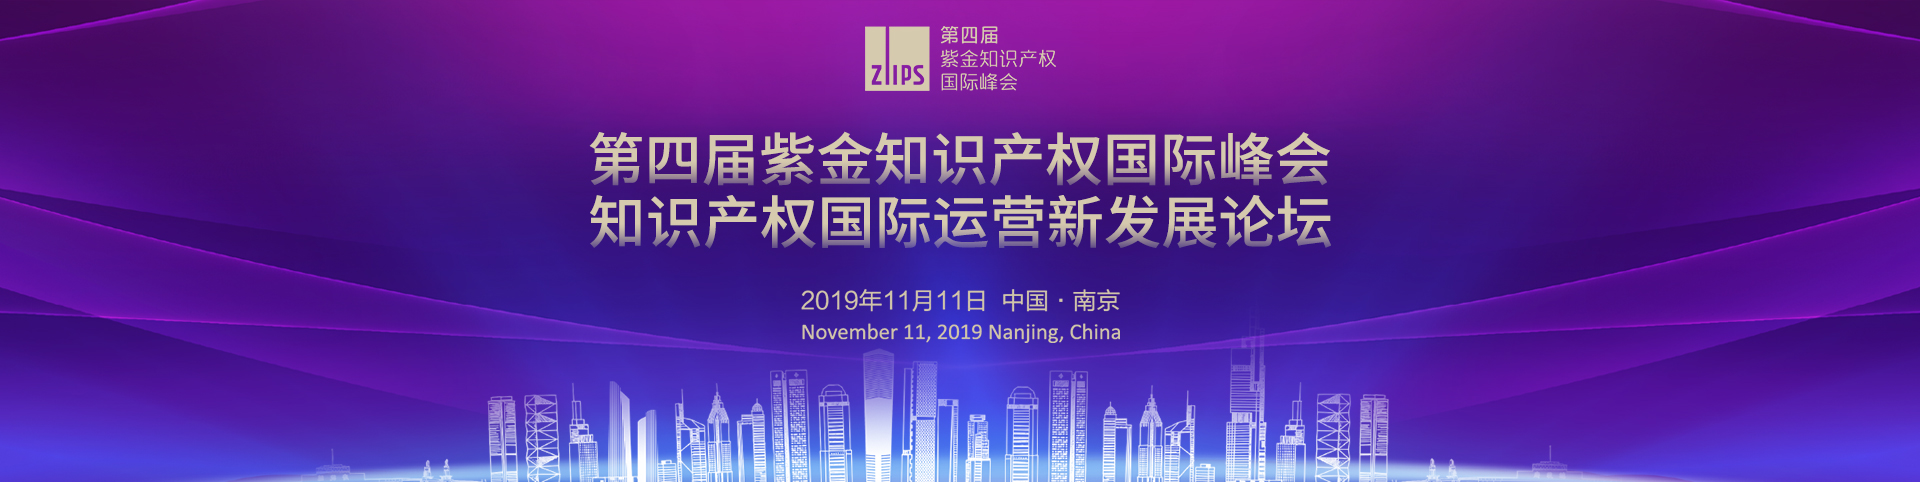
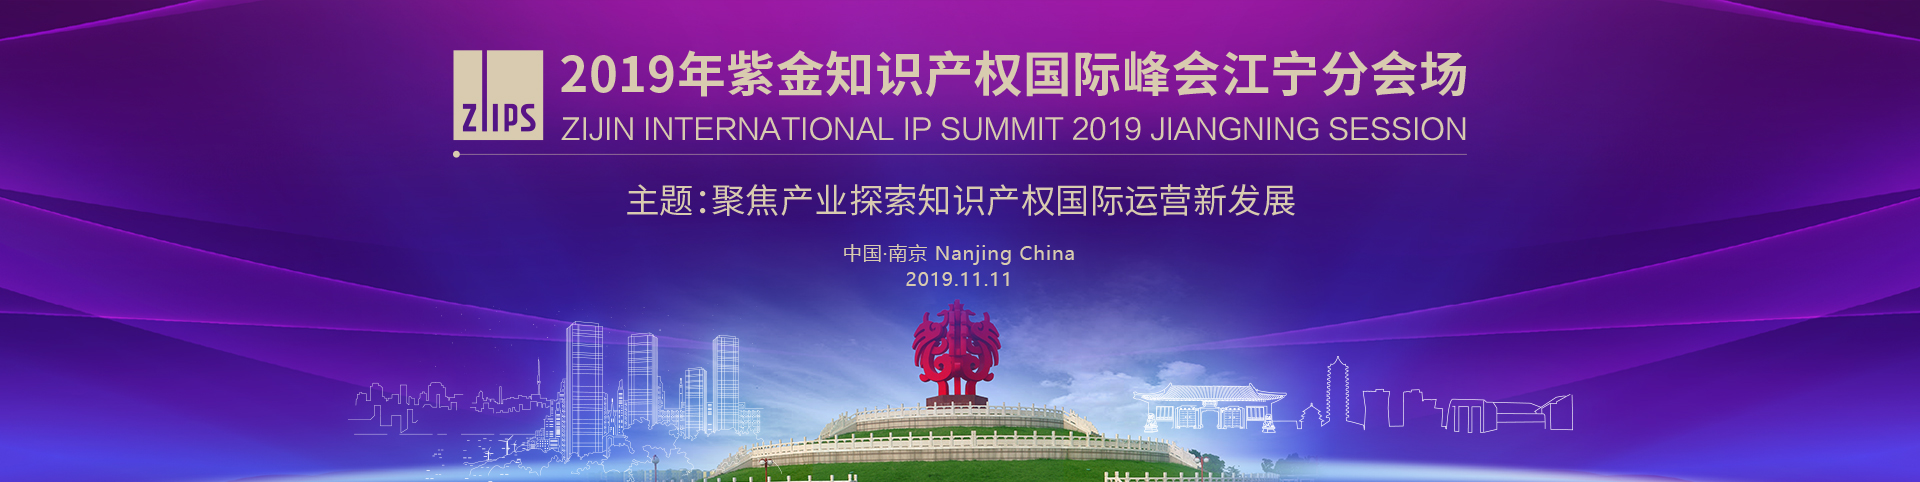
改图文字

Changed region(s): [[0.1562, 0.0311, 0.8125, 1.0]]

diff --git a/pack/zifen/2019ZHISHI.html b/pack/zifen/2019ZHISHI.html
@@ -18,7 +18,7 @@
 	.mw{width: 1200px; margin: auto;}
 	.head{height: 108px;}
 	.banner{height: 482px; background: url("./resource/banner.jpg") center;}
-	.logo{height: 78px; width: 396px; background-image: url("./resource/logo.jpg"); padding: 0;}
+	.logo{height: 65px; width: 421px; background: url("./resource/logo.jpg") no-repeat; margin-top: 7px;}
 	
 	.tit1{text-align: center; color: #b6a16a; font-size: 28px; padding-top: 120px; padding-bottom: 50px;}
 	.con1{line-height: 50px; font-size: 20px; padding-bottom: 50px;}
@@ -66,7 +66,7 @@
 		<div class="tit1">聚焦产业探索知识产权国际运营新发展</div>
 		<table class="locTab mw" border="0" cellpadding="0" cellspacing="0" style="text-align: center;">
 			<tr>
-				<td style="width: 670px;">时间：2019年11月11日 (星期一)&nbsp;下午13:30-17:30</td>
+				<td style="width: 670px;">时间：2019年11月11日（星期一）&nbsp;下午13:30-17:00</td>
 			</tr>
 			<tr>
 				<td>地点：南京国际青年会议酒店百花厅（建邺区邺城路8号）</td>
@@ -86,38 +86,68 @@
 		<div class="line"></div>
 		<div class="tit1">主要议程</div>
 		<div class="mw">
-			<div class="itTime">13:20-14:00</div>
+			<div class="itTime">13:00-13:30</div>
 			<div class="itVal">来宾签到</div>
 		</div>
 		<div class="dash"></div>
 		<div class="mw">
-			<div class="itTime">14:00-14:25</div>
+			<div class="itTime">13:30-13:50</div>
 			<div class="itVal">领导致辞</div>
 		</div>
 		<div class="dash"></div>
 		<div class="mw">
-			<div class="itTime">14:25-14:35</div>
+			<div class="itTime">13:50-14:00</div>
 			<div class="itVal">签约仪式</div>
 		</div>
 		<div class="dash"></div>
 		<div class="mw">
-			<div class="itTime">14:35-14:45</div>
-			<div class="itVal">揭牌仪式</div>
-		</div>
-		<div class="dash"></div>
-		<div class="mw">
-			<div class="itTime">14:45-14:55</div>
+			<div class="itTime">14:00-14:05</div>
 			<div class="itVal">聘书仪式</div>
 		</div>
 		<div class="dash"></div>
 		<div class="mw">
-			<div class="itTime">15:10-16:30</div>
-			<div class="itVal">主题演讲</div>
+			<div class="itTime">14:05-14:10</div>
+			<div class="itVal">揭牌仪式</div>
 		</div>
 		<div class="dash"></div>
 		<div class="mw">
-			<div class="itTime">16:30-17:30</div>
-			<div class="itVal">座谈交流</div>
+			<div class="itTime">14:10-14:30</div>
+			<div class="itVal">主旨演讲<br>（1）适用于中国专利的专利许可新方法探究<br>
+				演讲嘉宾：荷兰经济部国家企业局高级顾问Hans Kamphuis<br>
+				（2）聚焦中瑞两国知识产权转化与创新<br>
+				演讲嘉宾：中国瑞典商会董事会董事、中国北欧创新创业基地创始人CEO Felicia Lindoff
+				</div>
+		</div>
+		<div class="dash"></div>
+		<div class="mw">
+			<div class="itTime">14:30-14:40</div>
+			<div class="itVal">茶歇与交流</div>
+		</div>
+		<div class="dash"></div>
+		<div class="mw">
+			<div class="itTime">14:40-16:00</div>
+			<div class="itVal">主题演讲<br>
+			演讲主题：通往全球的品牌之路<br>
+			嘉宾：国际商标协会亚太区主席　Seth Hays<br>
+			演讲主题：韩国医药领域专利实务发展趋势和案例<br>
+			嘉宾：韩国特许厅前韩国专利审判院院长　李在薰　<br>
+			演讲主题：发展之路与IP之道-论知识产权对生物医药企业的重要性<br>
+			嘉宾：药融圈合伙人、药融圈CBV联盟发起人 Rongke Chen　<br>
+			演讲主题：知识产权助力企业全球发展<br>
+			金斯瑞首席战略官 朱力<br>
+		</div>
+		</div>
+		<div class="dash"></div>
+		<div class="mw">
+			<div class="itTime">16:00-17:00</div>
+			<div class="itVal">座谈讨论<br>
+			主题：聚焦生物医药产业的知识产权运营与布局<br>
+			拟邀嘉宾：<br>
+			杨  帆  诺华制药知识产权总监<br>
+			朱颖先  罗氏制药专利副总裁<br>
+			邓  军  诺维信知识产权总监<br>
+			吴鹤松  正大丰海知识产权总监<br>
+</div>
 		</div>
 		<div class="dash"></div>
 		</div>
